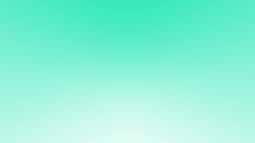
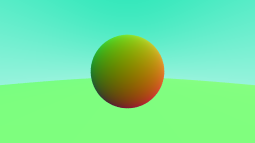
Added scene abstraction and antialiasing

diff --git a/src/main.cpp b/src/main.cpp
@@ -3,11 +3,14 @@
 #include <ranges>
 #include <fstream>
 #include <vector>
+#include <random>
 
 #include "types.hpp"
 #include "image.hpp"
 #include "math/float3.hpp"
 #include "math/ray.hpp"
+#include "scene/scene.hpp"
+#include "utils.hpp"
 
 int main()
 {
@@ -25,7 +28,7 @@ int main()
     // https://www.gabrielgambetta.com/computer-graphics-from-scratch/02-basic-raytracing.html : We draw on the canvas / image
     // what ever we are seeing in the viewport.
     // Note that aspect ratio is recomputed here, because this is the 'actual image aspect ratio' without integer rounding of
-    // or checks to ensure image_height is atleast 1u. The aspect_ratio variable defined above is the ideal aspect ratio, but what is 
+    // or checks to ensure image_height is atleast 1u. The aspect_ratio variable defined above is the ideal aspect ratio, but what is
     // being computed for viewport is the 'actual' aspect ratio of the image.
     constexpr float viewport_width = 4.0f;
     constexpr float viewport_height = viewport_width / (static_cast<float>(image_width) / static_cast<float>(image_height));
@@ -40,7 +43,7 @@ int main()
     constexpr math::float3 viewport_u = math::float3(viewport_width, 0.0f, 0.0f);
     constexpr math::float3 viewport_v = math::float3(0.0f, -1.0f * viewport_height, 0.0f);
 
-    // The image coordinates (row, col) are in image space, where origin is top left. 
+    // The image coordinates (row, col) are in image space, where origin is top left.
     // But the rays the camera shoots to the scene must be in view space (where the camera is at center / origin).
     // The camera_center, and viewport vectors will help in this coordinate system conversion.
     // The pixel grid is inset from the viewport edges by half pixel to pixel distance. This means the pixel locations are the actual
@@ -49,30 +52,71 @@ int main()
     // evenly divided into w x h identical regions.s
 
     // Pixel delta : horizontal and vertical vectors between pixel location's.
-    constexpr auto pixel_delta_u = viewport_u / image_width; 
+    constexpr auto pixel_delta_u = viewport_u / image_width;
     constexpr auto pixel_delta_v = viewport_v / image_height;
 
     constexpr auto viewport_upper_left = math::float3(-viewport_u.r / 2.0f, -1.0f * viewport_v.g / 2.0f, focal_length) - camera_center;
     constexpr auto upper_left_pixel_position = viewport_upper_left + (pixel_delta_u + pixel_delta_v) * 0.5f;
+
+    // Scene objects.
+    constexpr scene::sphere_t sphere = scene::sphere_t{
+        .center = math::float3(0.0f, 0.0f, 1.0f),
+        .radius = 0.5f,
+    };
+
+    constexpr scene::sphere_t background_sphere = scene::sphere_t{
+        .center = math::float3(0.0f, -100.5f, 1.0f),
+        .radius = 100.0f,
+    };
+
+    scene::scene_t world{};
+    world.add_sphere(sphere);
+    world.add_sphere(background_sphere);
+
+    constexpr u32 sample_count = 100;
 
     for (const auto row : std::views::iota(0u, image_height))
     {
         for (const auto col : std::views::iota(0u, image_width))
         {
             // Using u, v to find the view space coordinate of viewport pixel.
-            // pixel_delta_v and u after multiplication with col and row are of range : [0, viewport_v], [0, viewport_u] 
-            const math::float3 pixel_center = upper_left_pixel_position + pixel_delta_v * static_cast<float>(row) + pixel_delta_u * static_cast<float>(col); 
-            const auto camera_to_pixel_ray = math::ray_t(camera_center, pixel_center - camera_center);
+            // pixel_delta_v and u after multiplication with col and row are of range : [0, viewport_v], [0, viewport_u]
 
-            const auto get_background_color = [&](const float ray_dir_y) -> math::float3
+            math::float3 color{0.0f, 0.0f, 0.0f};
+
+            for (const auto k : std::views::iota(0u, sample_count))
             {
-                constexpr auto white_color =  math::float3(1.0f, 1.0f, 1.0f);
-                constexpr auto teal_color = math::float3(0.1f, 0.9f, 0.7f);
+                const math::float3 pixel_center = upper_left_pixel_position + pixel_delta_v * static_cast<float>(row) + pixel_delta_u * static_cast<float>(col);
+                const math::float3 pixel_sample = pixel_center + pixel_delta_u * (-0.5f + utils::random_float_in_range_0_1()) + pixel_delta_v * (-0.5f + utils::random_float_in_range_0_1());
 
-                return math::float3::lerp(white_color, teal_color, (ray_dir_y + 1.0f) * 0.5f);
-            };
+                const auto camera_to_pixel_ray = math::ray_t(camera_center, pixel_sample - camera_center);
 
-            image.add_normalized_float3_to_buffer(get_background_color(camera_to_pixel_ray.direction.normalize().g));
+                const auto get_background_color = [&](const float ray_dir_y) -> math::float3
+                {
+                    constexpr auto white_color = math::float3(1.0f, 1.0f, 1.0f);
+                    constexpr auto teal_color = math::float3(0.1f, 0.9f, 0.7f);
+
+                    return math::float3::lerp(white_color, teal_color, (ray_dir_y + 1.0f) * 0.5f);
+                };
+
+                const auto get_color = [&]()
+                {
+                    if (const auto hit_record = world.ray_hit(camera_to_pixel_ray); hit_record.has_value())
+                    {
+                        // Return the normal at hit point and convert from -1, 1 to 0, 1 range.
+                        const auto normal = hit_record->normal;
+                        const auto rgb = math::float3(normal.r + 1.0f, normal.g + 1.0f, normal.b + 1.0f) * 0.5f;
+                        return rgb;
+                    }
+
+                    return get_background_color(camera_to_pixel_ray.direction.normalize().g);
+                };
+
+                color += get_color();
+           };
+
+            color = math::float3(std::clamp(color.r / sample_count, 0.0f, 1.0f), std::clamp(color.g / sample_count, 0.0f, 1.0f), std::clamp(color.b / sample_count, 0.0f, 1.0f));
+            image.add_normalized_float3_to_buffer(color);
         }
     }
 

diff --git a/src/scene/sphere.cpp b/src/scene/sphere.cpp
@@ -1,0 +1,50 @@
+#include "scene/sphere.hpp"
+
+#include "math/ray.hpp"
+
+
+namespace scene
+{
+    const std::optional<float> sphere_t::hit_by_ray(const math::ray_t& ray) const
+    {
+        // For a point P(x, y, z) to be on / inside / outside the sphere, we have to compare :
+        // (P - sphere.center) . (P - sphere.center) and sphere.radius ^ 2              --- (i)
+        // (P.x - sp.center.x) ^ 2 + (P.y - sp.center.y) ^ 2 + (P.z - sp.center.z) ^ 2 and sp.radius^2.
+        // P is a point on the ray with origin org and direction dir. The unknown here is ray parameter t.
+        // So, P is essentially a point on ray with parametric form P = ray.org + ray.dir * t.
+        // Substituting in equation (i),
+        // (org + dir * t - sp.center) . (org + dir * t - sp.center) <=> sp.radius^2
+        // (dir * t + org - sp.center) . (dir * t + org - sp.center) <=> sp.radius^2
+        // (dir . dir) * t ^ 2 + dir * t * 2 * (org - sp.center) + org . org + sp.center . sp.center - 2 * (org . sp.center)
+        // t ^ 2 (dir . dir) + t (2 * dir . (org - sp.center)) + (org . org + sp.center . sp.center - 2 * (org. sp.center))
+        // t ^ 2 (dir . dir) + t (2 * dir . (org - sp.center)) + (org - sp.center) . (org - sp.center) - sp.radius ^ <=> 0
+
+        // If the determinant is >= 0, there exist a value of t that satisfies the equation, which means the ray does indeed
+        // hit the sphere at one or 2 points.
+        // determinant = B^2 - 4 A C
+        // Here, B = 2 * dir * (org - sp.center), A = dir . dir, C = (org - sp.center) . (org - sp.center) - sp.radius ^ 2
+        // Where equation is A t ^ 2 + B t + C = 0.
+        
+        // Optimization : See how B contains a 2 * .. term.
+        // Say B = 2 X
+        // Then, determinant = 4 X ^ 2 - 4 A C
+        // So, the determinant becomes 4 * (X ^ 2 - A C) and the roots becomes
+        // - X +- sqrt(determinant) / A
+
+        const auto ray_origin_minus_center = ray.origin - center;
+
+        const auto half_b = math::float3::dot(ray.direction, ray_origin_minus_center);
+        const auto a = math::float3::dot(ray.direction, ray.direction);
+        const auto c = math::float3::dot(ray_origin_minus_center, ray_origin_minus_center) - radius * radius;
+
+        const auto determinant = half_b * half_b - a * c; 
+        if (determinant >= 0.0f)
+        {
+            return (-half_b - std::sqrt(determinant)) / (a);
+        }
+        else
+        {
+            return std::nullopt;
+        }
+    }
+}

diff --git a/src/scene/scene.cpp b/src/scene/scene.cpp
@@ -1,0 +1,63 @@
+#include "scene/scene.hpp"
+
+#include "scene/sphere.hpp"
+#include "math/ray.hpp"
+
+#include <climits>
+#include <optional>
+
+namespace scene
+{
+    void scene_t::add_sphere(const sphere_t& sphere)
+    {
+        spheres.emplace_back(sphere);
+    }
+
+    std::optional<hit_details_t> scene_t::ray_hit(const math::ray_t& ray) const
+    {
+        float min_t = 0.0f;
+        float max_t = std::numeric_limits<float>::max();
+
+        hit_details_t ray_hit_details{};
+        bool ray_hit_object_in_scene = false;
+
+        for (const auto& sphere : spheres)
+        {
+            const auto t = sphere.hit_by_ray(ray);
+            if (t.has_value() && t >= min_t && t <= max_t)
+            {
+                // Fill hit_details struct.
+                ray_hit_details.ray_param_t = *t;
+                ray_hit_details.point_of_intersection = ray.at(*t);
+
+                math::float3 normal = (ray_hit_details.point_of_intersection - sphere.center) / sphere.radius;
+
+                // To find if the ray hit a back face or front face.
+                // If the angle between normal and ray direction is greater than 90, then
+                // the ray hit a front face.
+                const auto normal_and_ray_direction_dot_product = math::float3::dot(ray.direction.normalize(), normal);
+                if (normal_and_ray_direction_dot_product < 0.0f)
+                {
+                    ray_hit_details.back_face = false;
+                    ray_hit_details.normal = normal;
+                }
+                else
+                {
+                    ray_hit_details.back_face = true;
+                    ray_hit_details.normal = normal * -1.0f;
+                }
+
+                max_t = *t;
+
+                ray_hit_object_in_scene = true;
+            }
+        }
+
+        if (!ray_hit_object_in_scene)
+        {
+            return std::nullopt;
+        } 
+
+        return ray_hit_details;
+    }
+}

diff --git a/include/cuda-raytracer/scene/scene.hpp b/include/cuda-raytracer/scene/scene.hpp
@@ -1,0 +1,32 @@
+#pragma once
+
+#include <vector>
+#include <optional>
+
+#include "sphere.hpp"
+#include "math/ray.hpp"
+
+namespace scene
+{
+    // After a ray hits a object, the details at the point of intersection are stored in this struct.
+    struct hit_details_t
+    {
+        math::float3 point_of_intersection;
+        float ray_param_t{};
+
+        math::float3 normal;
+        bool back_face{false};
+    };
+
+    // A abstraction that contains a list of hittable objects.
+    class scene_t
+    {
+    public:
+        void add_sphere(const sphere_t &sphere);
+
+        std::optional<hit_details_t> ray_hit(const math::ray_t &ray) const;
+
+    private:
+        std::vector<sphere_t> spheres{};
+    };
+}

diff --git a/include/cuda-raytracer/math/float3.hpp b/include/cuda-raytracer/math/float3.hpp
@@ -20,7 +20,7 @@ namespace math
 
         // since std::sqrt is not constexpr, this function (and all others that use it)
         // are not marked as constexpr altogether.
-        float magnitude() const
+        const float magnitude() const
         {
             return std::sqrt(r * r + g * g + b * b);
         }
@@ -41,7 +41,7 @@ namespace math
         {
             r += other.r;
             g += other.g;
-            b += other.g;
+            b += other.b;
 
             return *this;
         }

diff --git a/include/cuda-raytracer/scene/sphere.hpp b/include/cuda-raytracer/scene/sphere.hpp
@@ -1,0 +1,17 @@
+#pragma once
+
+#include "math/float3.hpp"
+#include "math/ray.hpp"
+
+#include <optional>
+
+namespace scene
+{
+    struct sphere_t
+    {
+        math::float3 center{};
+        float radius{1.0f};
+    
+        const std::optional<float> hit_by_ray(const math::ray_t &ray) const;
+    };
+}

diff --git a/include/cuda-raytracer/math/utils.hpp b/include/cuda-raytracer/math/utils.hpp
@@ -1,0 +1,14 @@
+#pragma once
+
+#include <random>
+
+namespace utils
+{
+    float random_float_in_range_0_1()
+    {
+        static std::uniform_real_distribution<float> distribution(0.0f, 1.0f);
+        static std::mt19937 generator{};
+
+        return distribution(generator);
+    }
+}
